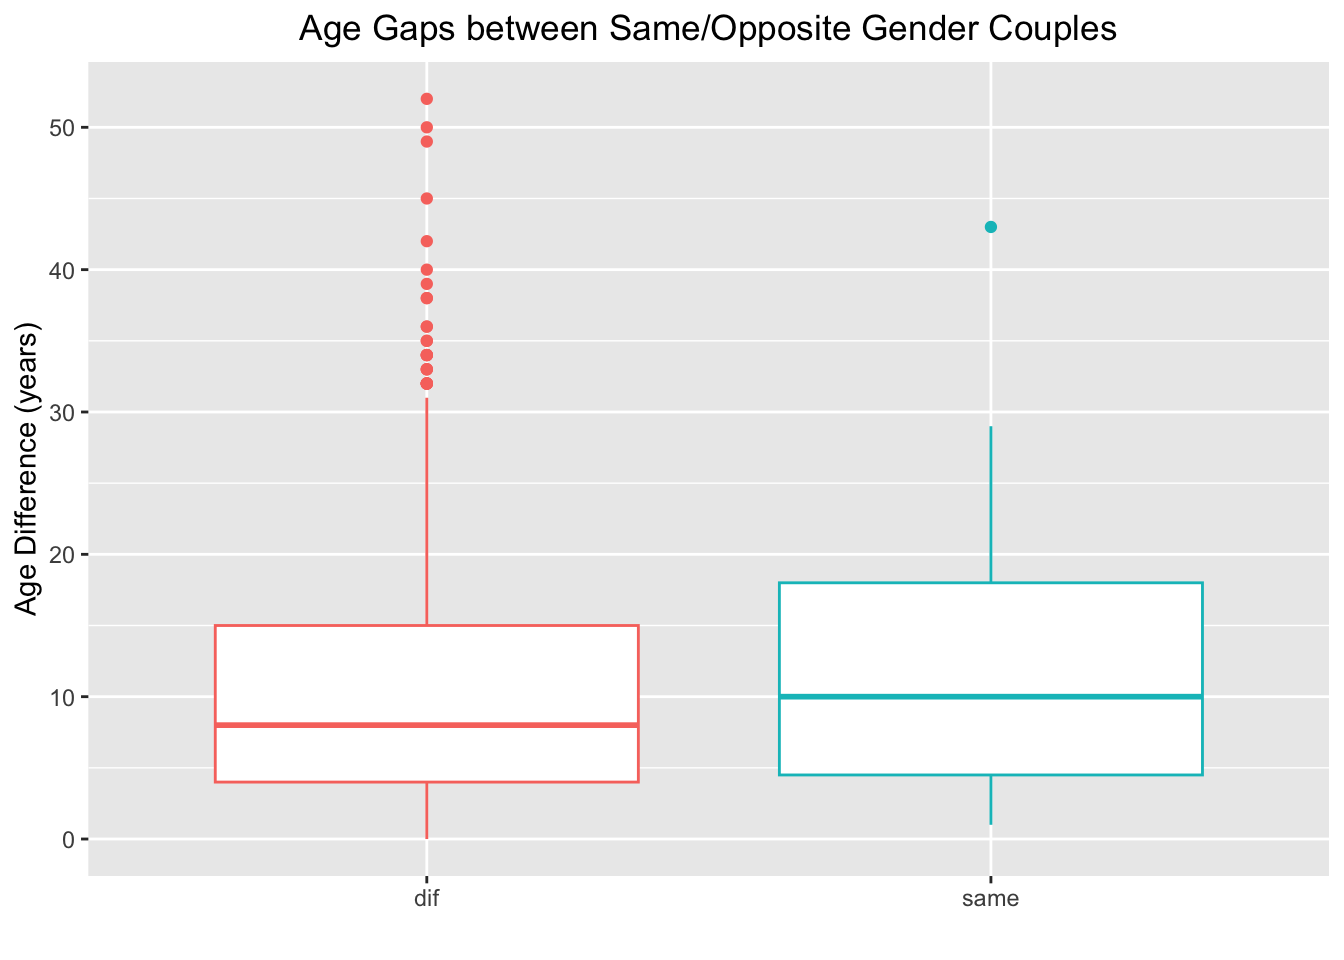
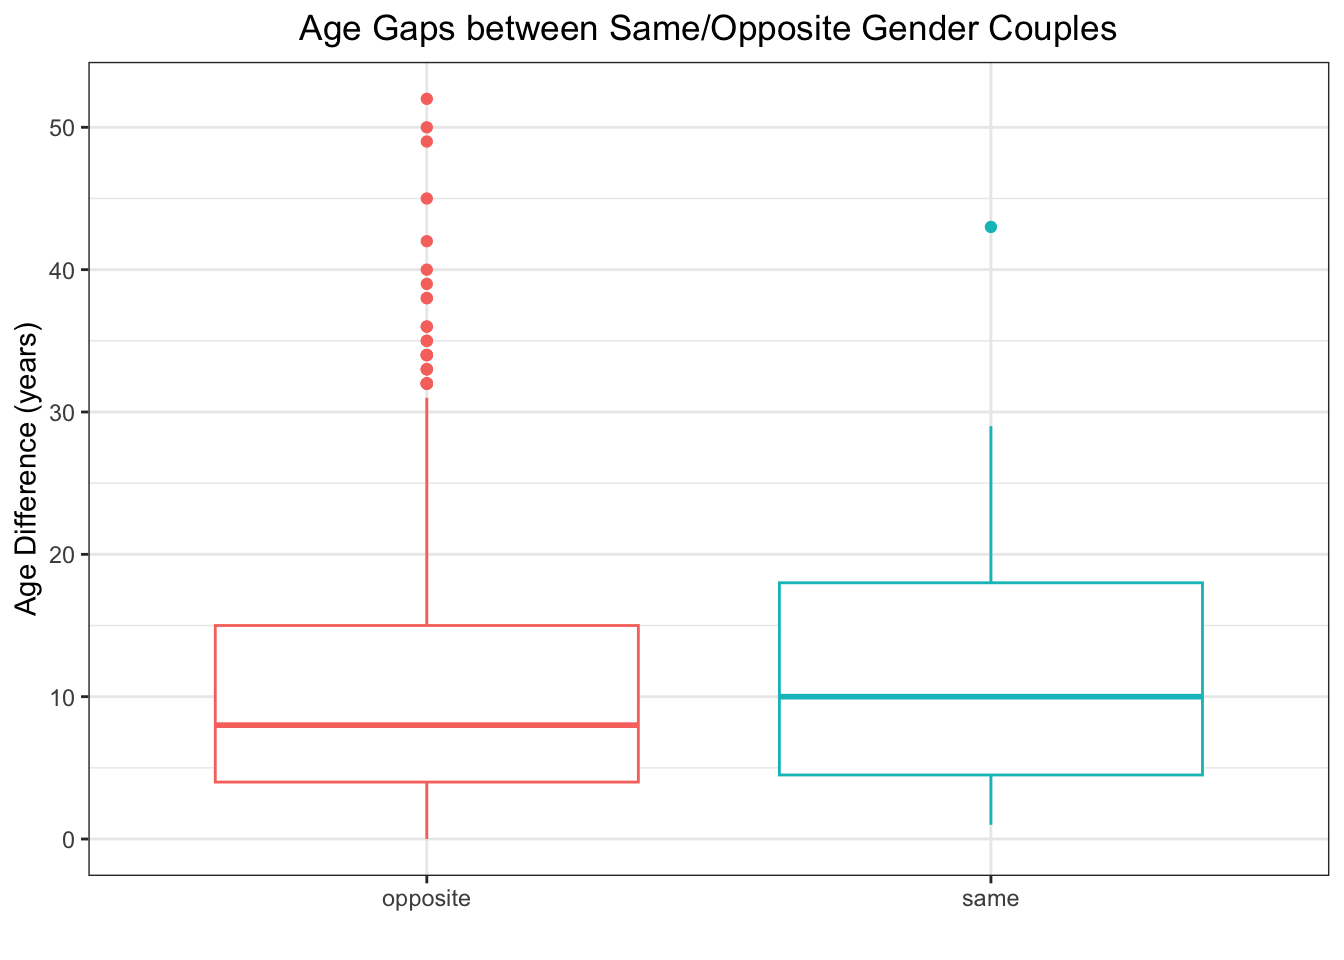
edits to TidyTues MOD

diff --git a/docs/tidytuesday_exercise.html b/docs/tidytuesday_exercise.html
@@ -445,16 +445,16 @@ This dataset seems to be fairly clean, with consistent entries for each variable
 <span id="cb17-5"><a href="#cb17-5" aria-hidden="true" tabindex="-1"></a>    <span class="co">#Same-gender female couples</span></span>
 <span id="cb17-6"><a href="#cb17-6" aria-hidden="true" tabindex="-1"></a>    (age_gaps<span class="sc">$</span>character_1_gender <span class="sc">==</span> <span class="st">"woman"</span> <span class="sc">&amp;</span> age_gaps<span class="sc">$</span>character_2_gender <span class="sc">==</span> <span class="st">"woman"</span>) <span class="sc">~</span><span class="st">"same"</span>, </span>
 <span id="cb17-7"><a href="#cb17-7" aria-hidden="true" tabindex="-1"></a>    <span class="co">#Opposite-gender couples</span></span>
-<span id="cb17-8"><a href="#cb17-8" aria-hidden="true" tabindex="-1"></a>    (age_gaps<span class="sc">$</span>character_1_gender <span class="sc">==</span> <span class="st">"woman"</span> <span class="sc">&amp;</span> age_gaps<span class="sc">$</span>character_2_gender <span class="sc">==</span> <span class="st">"man"</span>) <span class="sc">~</span><span class="st">"dif"</span>, </span>
+<span id="cb17-8"><a href="#cb17-8" aria-hidden="true" tabindex="-1"></a>    (age_gaps<span class="sc">$</span>character_1_gender <span class="sc">==</span> <span class="st">"woman"</span> <span class="sc">&amp;</span> age_gaps<span class="sc">$</span>character_2_gender <span class="sc">==</span> <span class="st">"man"</span>) <span class="sc">~</span><span class="st">"opposite"</span>, </span>
 <span id="cb17-9"><a href="#cb17-9" aria-hidden="true" tabindex="-1"></a>     <span class="co">#Opposite-gender couples</span></span>
-<span id="cb17-10"><a href="#cb17-10" aria-hidden="true" tabindex="-1"></a>    (age_gaps<span class="sc">$</span>character_1_gender <span class="sc">==</span> <span class="st">"man"</span> <span class="sc">&amp;</span> age_gaps<span class="sc">$</span>character_2_gender <span class="sc">==</span> <span class="st">"woman"</span>) <span class="sc">~</span><span class="st">"dif"</span>)) </span>
+<span id="cb17-10"><a href="#cb17-10" aria-hidden="true" tabindex="-1"></a>    (age_gaps<span class="sc">$</span>character_1_gender <span class="sc">==</span> <span class="st">"man"</span> <span class="sc">&amp;</span> age_gaps<span class="sc">$</span>character_2_gender <span class="sc">==</span> <span class="st">"woman"</span>) <span class="sc">~</span><span class="st">"opposite"</span>)) </span>
 <span id="cb17-11"><a href="#cb17-11" aria-hidden="true" tabindex="-1"></a></span>
 <span id="cb17-12"><a href="#cb17-12" aria-hidden="true" tabindex="-1"></a><span class="co">#New dataframes for same and opposite gender relationships </span></span>
 <span id="cb17-13"><a href="#cb17-13" aria-hidden="true" tabindex="-1"></a>age_same<span class="ot">&lt;-</span> age_gaps3 <span class="sc">%&gt;%</span></span>
 <span id="cb17-14"><a href="#cb17-14" aria-hidden="true" tabindex="-1"></a>  <span class="fu">filter</span>(gender <span class="sc">%in%</span> <span class="st">"same"</span>)</span>
 <span id="cb17-15"><a href="#cb17-15" aria-hidden="true" tabindex="-1"></a></span>
 <span id="cb17-16"><a href="#cb17-16" aria-hidden="true" tabindex="-1"></a>age_opp<span class="ot">&lt;-</span> age_gaps3 <span class="sc">%&gt;%</span></span>
-<span id="cb17-17"><a href="#cb17-17" aria-hidden="true" tabindex="-1"></a>  <span class="fu">filter</span>(gender <span class="sc">%in%</span> <span class="st">"dif"</span>)</span></code><button title="Copy to Clipboard" class="code-copy-button"><i class="bi"></i></button></pre></div>
+<span id="cb17-17"><a href="#cb17-17" aria-hidden="true" tabindex="-1"></a>  <span class="fu">filter</span>(gender <span class="sc">%in%</span> <span class="st">"opposite"</span>)</span></code><button title="Copy to Clipboard" class="code-copy-button"><i class="bi"></i></button></pre></div>
 </div>
 <div class="cell">
 <div class="sourceCode cell-code" id="cb18"><pre class="sourceCode r code-with-copy"><code class="sourceCode r"><span id="cb18-1"><a href="#cb18-1" aria-hidden="true" tabindex="-1"></a><span class="fu">glimpse</span>(age_same)</span></code><button title="Copy to Clipboard" class="code-copy-button"><i class="bi"></i></button></pre></div>
@@ -478,7 +478,7 @@ $ older              &lt;chr&gt; "Male", "Male", "Female", "Male", "Female", "Ma
 $ gender             &lt;chr&gt; "same", "same", "same", "same", "same", "same", "sa…</code></pre>
 </div>
 </div>
-<p>From this, we can see that 23 entries are same-gender couples. There is a lot going on with the aboce graph, so lets use a boxxplot to looks at this data.</p>
+<p>From this, we can see that 23 entries are same-gender couples. There is a lot going on with the above graph, so lets use a box plot to look at this data.</p>
 </section>
 <section id="lets-make-a-box-plot-with-only-opposite-gender-couples" class="level3">
 <h3 class="anchored" data-anchor-id="lets-make-a-box-plot-with-only-opposite-gender-couples">Let’s make a box plot with only opposite gender couples</h3>
@@ -491,9 +491,9 @@ $ gender             &lt;chr&gt; "same", "same", "same", "same", "same", "same",
 <span id="cb20-6"><a href="#cb20-6" aria-hidden="true" tabindex="-1"></a>  <span class="fu">theme_bw</span>()<span class="sc">+</span></span>
 <span id="cb20-7"><a href="#cb20-7" aria-hidden="true" tabindex="-1"></a>  <span class="fu">labs</span>(</span>
 <span id="cb20-8"><a href="#cb20-8" aria-hidden="true" tabindex="-1"></a>    <span class="at">x =</span> <span class="st">""</span>,</span>
-<span id="cb20-9"><a href="#cb20-9" aria-hidden="true" tabindex="-1"></a>    <span class="at">y =</span> <span class="st">"Age Difference (years"</span>,</span>
+<span id="cb20-9"><a href="#cb20-9" aria-hidden="true" tabindex="-1"></a>    <span class="at">y =</span> <span class="st">"Age Difference (years)"</span>,</span>
 <span id="cb20-10"><a href="#cb20-10" aria-hidden="true" tabindex="-1"></a>    <span class="at">title =</span> <span class="st">"Age Difference by Gender of Opposite-gender Couples"</span>,</span>
-<span id="cb20-11"><a href="#cb20-11" aria-hidden="true" tabindex="-1"></a>    <span class="at">color =</span> <span class="st">"Older Actor"</span>)<span class="sc">+</span></span>
+<span id="cb20-11"><a href="#cb20-11" aria-hidden="true" tabindex="-1"></a>    <span class="at">color =</span> <span class="st">"Older Actor Gender"</span>)<span class="sc">+</span></span>
 <span id="cb20-12"><a href="#cb20-12" aria-hidden="true" tabindex="-1"></a>    <span class="fu">theme</span>(</span>
 <span id="cb20-13"><a href="#cb20-13" aria-hidden="true" tabindex="-1"></a>      <span class="at">plot.title =</span> <span class="fu">element_text</span>(<span class="at">hjust =</span> <span class="fl">0.5</span>))</span></code><button title="Copy to Clipboard" class="code-copy-button"><i class="bi"></i></button></pre></div>
 <div class="cell-output-display">
@@ -511,13 +511,14 @@ $ gender             &lt;chr&gt; "same", "same", "same", "same", "same", "same",
 <span id="cb21-3"><a href="#cb21-3" aria-hidden="true" tabindex="-1"></a>    <span class="at">x =</span> gender,</span>
 <span id="cb21-4"><a href="#cb21-4" aria-hidden="true" tabindex="-1"></a>    <span class="at">y =</span> age_difference,</span>
 <span id="cb21-5"><a href="#cb21-5" aria-hidden="true" tabindex="-1"></a>  <span class="at">color =</span> gender))<span class="sc">+</span></span>
-<span id="cb21-6"><a href="#cb21-6" aria-hidden="true" tabindex="-1"></a>  <span class="fu">labs</span>(</span>
-<span id="cb21-7"><a href="#cb21-7" aria-hidden="true" tabindex="-1"></a>    <span class="at">x =</span> <span class="st">""</span>,</span>
-<span id="cb21-8"><a href="#cb21-8" aria-hidden="true" tabindex="-1"></a>    <span class="at">y =</span> <span class="st">"Age Difference (years)"</span>,</span>
-<span id="cb21-9"><a href="#cb21-9" aria-hidden="true" tabindex="-1"></a>    <span class="at">title =</span> <span class="st">"Age Gaps between Same/Opposite Gender Couples"</span>)<span class="sc">+</span></span>
-<span id="cb21-10"><a href="#cb21-10" aria-hidden="true" tabindex="-1"></a>  <span class="fu">theme</span>(</span>
-<span id="cb21-11"><a href="#cb21-11" aria-hidden="true" tabindex="-1"></a>    <span class="at">plot.title =</span> <span class="fu">element_text</span>(<span class="at">hjust =</span> <span class="fl">0.5</span>),</span>
-<span id="cb21-12"><a href="#cb21-12" aria-hidden="true" tabindex="-1"></a>    <span class="at">legend.position =</span> <span class="st">"none"</span>)</span></code><button title="Copy to Clipboard" class="code-copy-button"><i class="bi"></i></button></pre></div>
+<span id="cb21-6"><a href="#cb21-6" aria-hidden="true" tabindex="-1"></a>  <span class="fu">theme_bw</span>()<span class="sc">+</span></span>
+<span id="cb21-7"><a href="#cb21-7" aria-hidden="true" tabindex="-1"></a>  <span class="fu">labs</span>(</span>
+<span id="cb21-8"><a href="#cb21-8" aria-hidden="true" tabindex="-1"></a>    <span class="at">x =</span> <span class="st">""</span>,</span>
+<span id="cb21-9"><a href="#cb21-9" aria-hidden="true" tabindex="-1"></a>    <span class="at">y =</span> <span class="st">"Age Difference (years)"</span>,</span>
+<span id="cb21-10"><a href="#cb21-10" aria-hidden="true" tabindex="-1"></a>    <span class="at">title =</span> <span class="st">"Age Gaps between Same/Opposite Gender Couples"</span>)<span class="sc">+</span></span>
+<span id="cb21-11"><a href="#cb21-11" aria-hidden="true" tabindex="-1"></a>  <span class="fu">theme</span>(</span>
+<span id="cb21-12"><a href="#cb21-12" aria-hidden="true" tabindex="-1"></a>    <span class="at">plot.title =</span> <span class="fu">element_text</span>(<span class="at">hjust =</span> <span class="fl">0.5</span>),</span>
+<span id="cb21-13"><a href="#cb21-13" aria-hidden="true" tabindex="-1"></a>    <span class="at">legend.position =</span> <span class="st">"none"</span>)</span></code><button title="Copy to Clipboard" class="code-copy-button"><i class="bi"></i></button></pre></div>
 <div class="cell-output-display">
 <p><img src="tidytuesday_exercise_files/figure-html/unnamed-chunk-14-1.png" class="img-fluid" width="672"></p>
 </div>
@@ -535,17 +536,15 @@ $ gender             &lt;chr&gt; "same", "same", "same", "same", "same", "same",
 <span id="cb22-4"><a href="#cb22-4" aria-hidden="true" tabindex="-1"></a>    <span class="at">y =</span> age_difference,</span>
 <span id="cb22-5"><a href="#cb22-5" aria-hidden="true" tabindex="-1"></a>    <span class="at">color =</span> gender,</span>
 <span id="cb22-6"><a href="#cb22-6" aria-hidden="true" tabindex="-1"></a>    <span class="at">alpha =</span> gender))<span class="sc">+</span></span>
-<span id="cb22-7"><a href="#cb22-7" aria-hidden="true" tabindex="-1"></a>  <span class="fu">scale_color_manual</span>(<span class="at">values =</span> <span class="fu">c</span>(<span class="st">"dif"</span> <span class="ot">=</span> <span class="st">"grey"</span>, <span class="st">"same"</span> <span class="ot">=</span> <span class="st">"darkred"</span>)) <span class="sc">+</span></span>
-<span id="cb22-8"><a href="#cb22-8" aria-hidden="true" tabindex="-1"></a>  <span class="fu">labs</span>(</span>
-<span id="cb22-9"><a href="#cb22-9" aria-hidden="true" tabindex="-1"></a>    <span class="at">x =</span> <span class="st">"Release Year"</span>,</span>
-<span id="cb22-10"><a href="#cb22-10" aria-hidden="true" tabindex="-1"></a>    <span class="at">y =</span> <span class="st">"Age Difference (years)"</span>,</span>
-<span id="cb22-11"><a href="#cb22-11" aria-hidden="true" tabindex="-1"></a>    <span class="at">title =</span> <span class="st">"Prevalance of Same-gender Relationships in Film"</span>)<span class="sc">+</span></span>
-<span id="cb22-12"><a href="#cb22-12" aria-hidden="true" tabindex="-1"></a>  <span class="fu">theme</span>(</span>
-<span id="cb22-13"><a href="#cb22-13" aria-hidden="true" tabindex="-1"></a>    <span class="at">plot.title =</span> <span class="fu">element_text</span>(<span class="at">hjust =</span> <span class="fl">0.5</span>),</span>
-<span id="cb22-14"><a href="#cb22-14" aria-hidden="true" tabindex="-1"></a>    <span class="at">legend.position  =</span> <span class="st">"none"</span>)</span></code><button title="Copy to Clipboard" class="code-copy-button"><i class="bi"></i></button></pre></div>
-<div class="cell-output cell-output-stderr">
-<pre><code>Warning: Using alpha for a discrete variable is not advised.</code></pre>
-</div>
+<span id="cb22-7"><a href="#cb22-7" aria-hidden="true" tabindex="-1"></a>  <span class="fu">theme_bw</span>()<span class="sc">+</span></span>
+<span id="cb22-8"><a href="#cb22-8" aria-hidden="true" tabindex="-1"></a>  <span class="fu">scale_color_manual</span>(<span class="at">values =</span> <span class="fu">c</span>(<span class="st">"dif"</span> <span class="ot">=</span> <span class="st">"grey"</span>, <span class="st">"same"</span> <span class="ot">=</span> <span class="st">"darkred"</span>)) <span class="sc">+</span></span>
+<span id="cb22-9"><a href="#cb22-9" aria-hidden="true" tabindex="-1"></a>  <span class="fu">labs</span>(</span>
+<span id="cb22-10"><a href="#cb22-10" aria-hidden="true" tabindex="-1"></a>    <span class="at">x =</span> <span class="st">"Release Year"</span>,</span>
+<span id="cb22-11"><a href="#cb22-11" aria-hidden="true" tabindex="-1"></a>    <span class="at">y =</span> <span class="st">"Age Difference (years)"</span>,</span>
+<span id="cb22-12"><a href="#cb22-12" aria-hidden="true" tabindex="-1"></a>    <span class="at">title =</span> <span class="st">"Prevalance of Same-gender Relationships in Film"</span>)<span class="sc">+</span></span>
+<span id="cb22-13"><a href="#cb22-13" aria-hidden="true" tabindex="-1"></a>  <span class="fu">theme</span>(</span>
+<span id="cb22-14"><a href="#cb22-14" aria-hidden="true" tabindex="-1"></a>    <span class="at">plot.title =</span> <span class="fu">element_text</span>(<span class="at">hjust =</span> <span class="fl">0.5</span>),</span>
+<span id="cb22-15"><a href="#cb22-15" aria-hidden="true" tabindex="-1"></a>    <span class="at">legend.position  =</span> <span class="st">"none"</span>)</span></code><button title="Copy to Clipboard" class="code-copy-button"><i class="bi"></i></button></pre></div>
 <div class="cell-output-display">
 <p><img src="tidytuesday_exercise_files/figure-html/unnamed-chunk-15-1.png" class="img-fluid" width="672"></p>
 </div>
